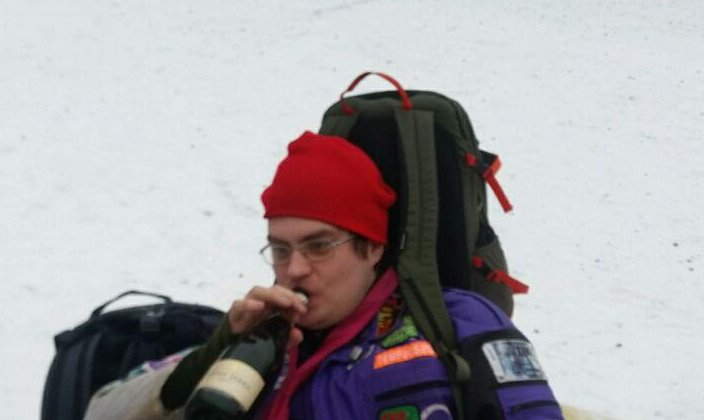
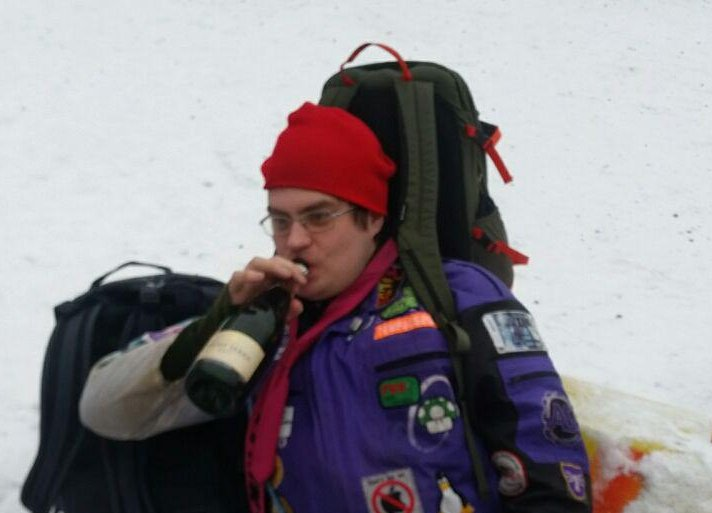
Apply cropping changes to article images

diff --git a/_posts/2017-02-24-puhis.md b/_posts/2017-02-24-puhis.md
@@ -5,7 +5,7 @@ date:   2017-01-24 23:39:46 +0200
 categories: hallituspalsta
 magazine: 1/2017
 print_order: 3
-caption: Väsynyt GT-toimittaja kilpailun erätauolla
+image: "/static/2017-02/puhis.jpg"
 author: Titta Saari
 ingress: Vuonna 2017 Kultaisen tomaatin perinteinen Puhiksen puhinat on hallituspalsta. Ensimmäisessä osassa ääneen pääsee killan puheenjohtaja Titta Saari.
 ---

diff --git a/_posts/2017-02-24-penispippeli-eli-mitä-AYYn-hallituskummi-haluaa-sanoa-AS-killalle.md b/_posts/2017-02-24-penispippeli-eli-mitä-AYYn-hallituskummi-haluaa-sanoa-AS-killalle.md
@@ -5,6 +5,7 @@ date:   2017-01-24 23:39:46 +0200
 categories: ayyh
 magazine: 1/2017
 print_order: 10
+image: "/static/2017-02/pyry_huhtanen.jpg"
 caption: Hallituskummi power napeilla seminaariluentojen välillä.
 author: Pyry Huhtanen, AS hallituskummi 2017
 ingress: Jokaisella erityisasemayhdistyksellä on AYYn hallituksessa kiltakummi. Meillä on Pyry Huhtanen
